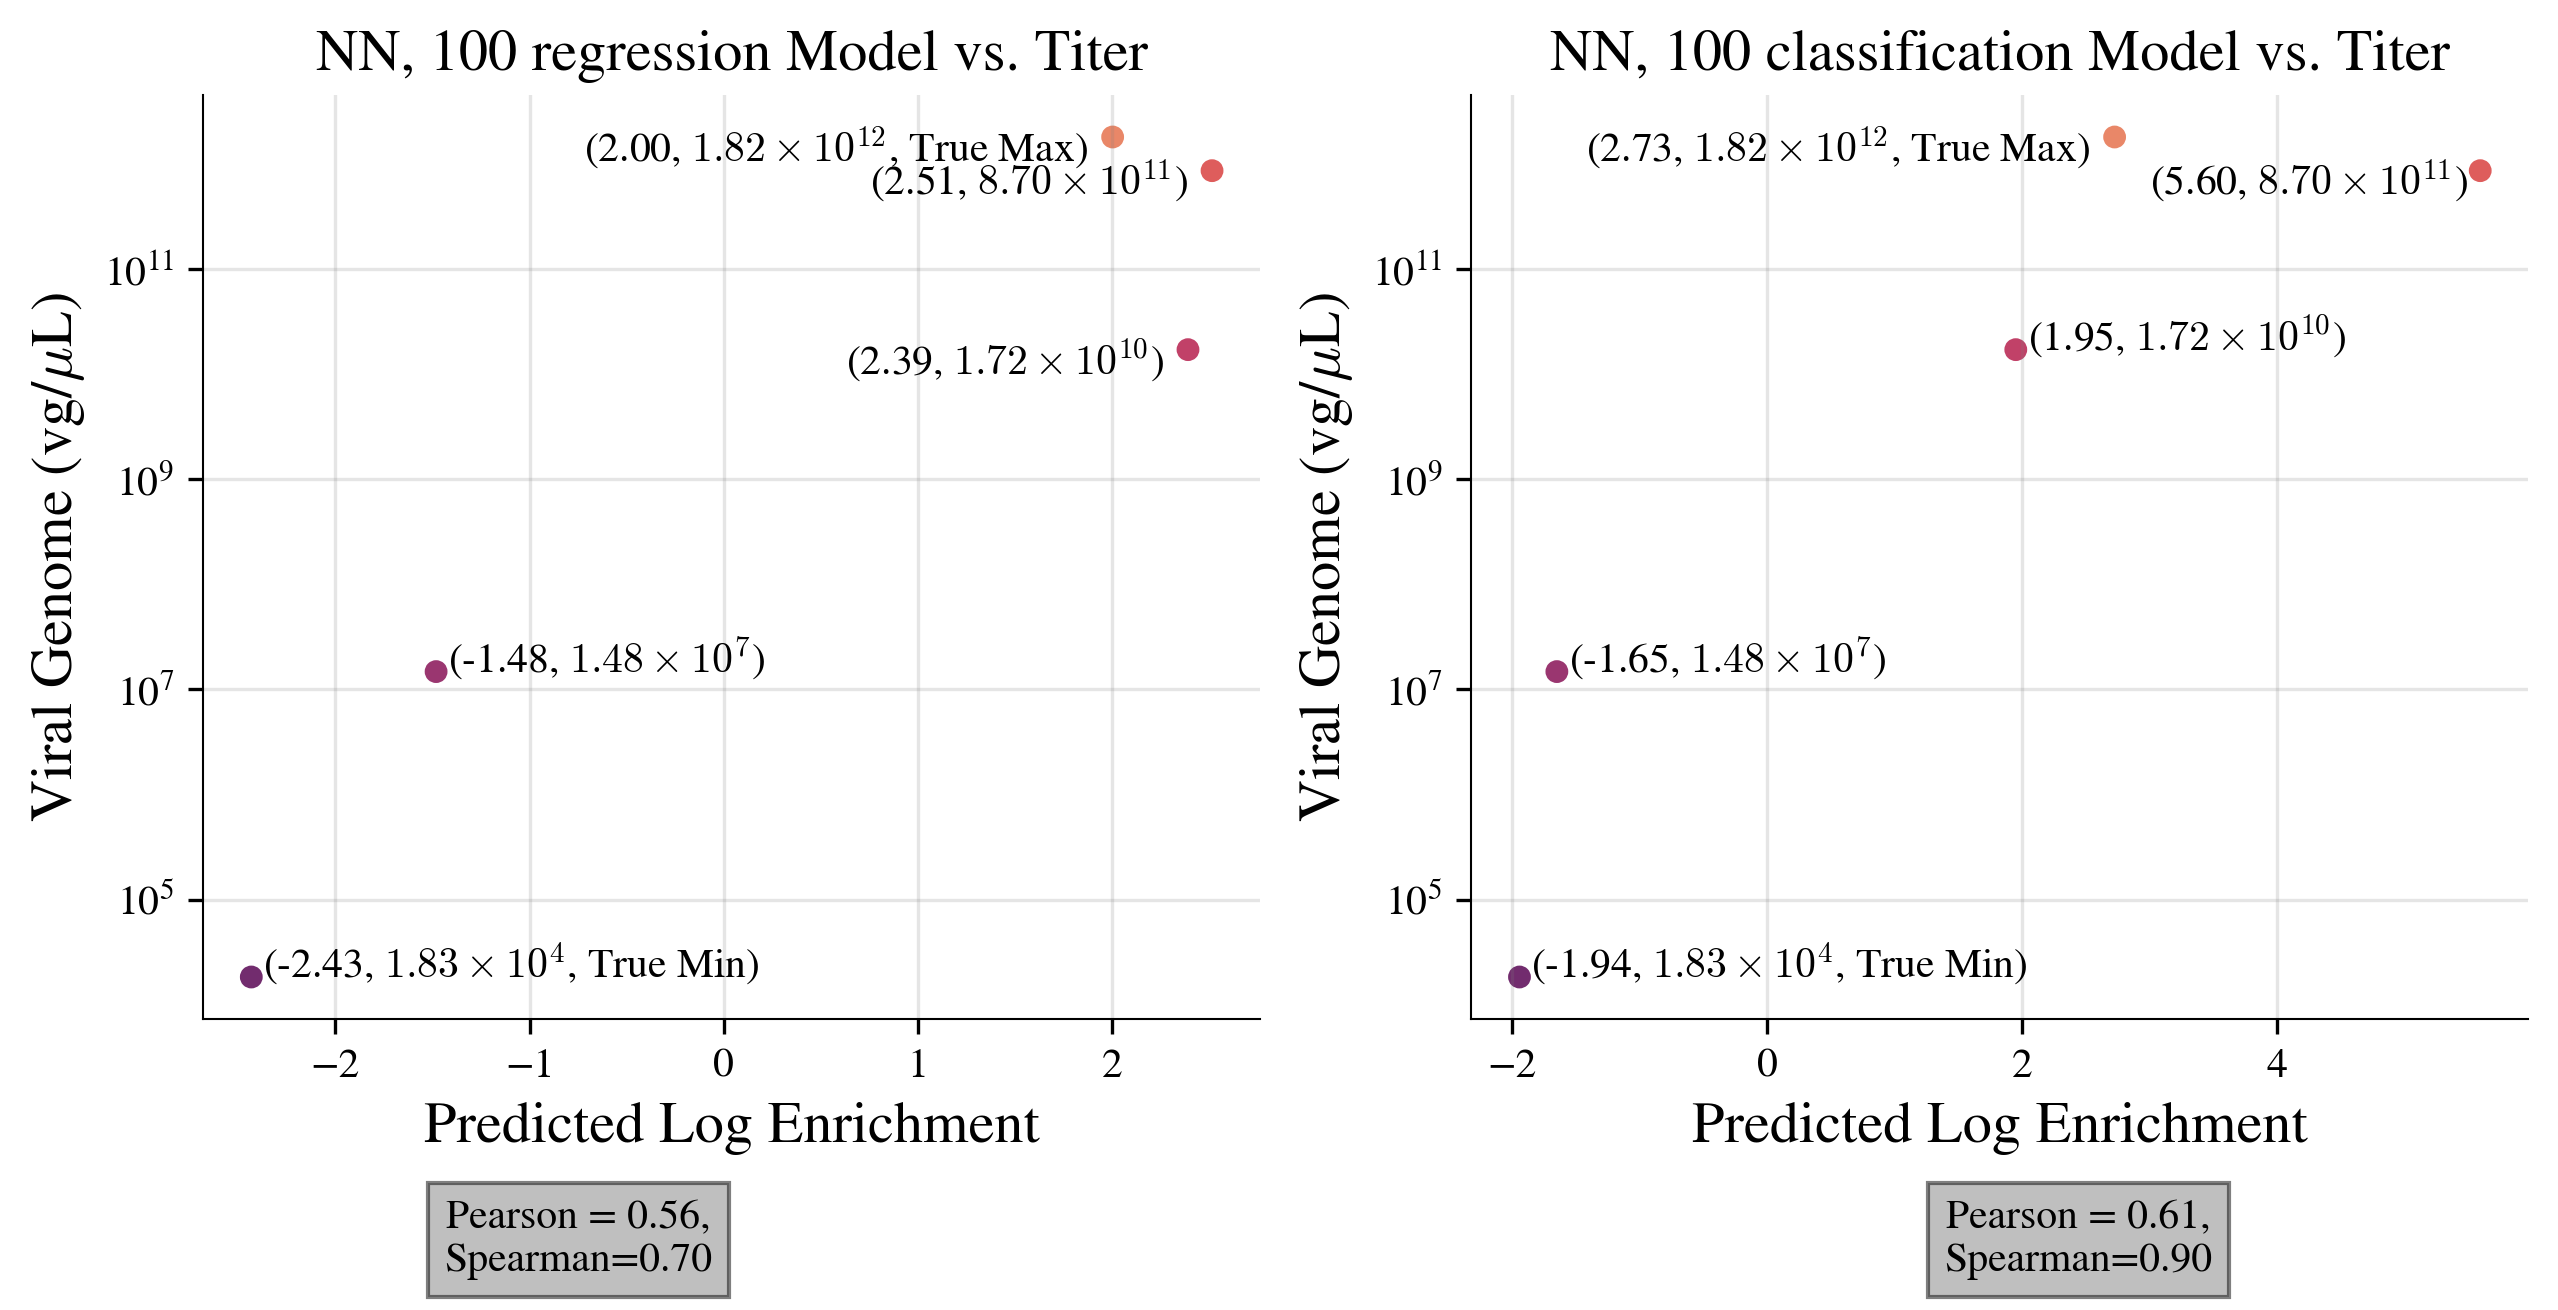
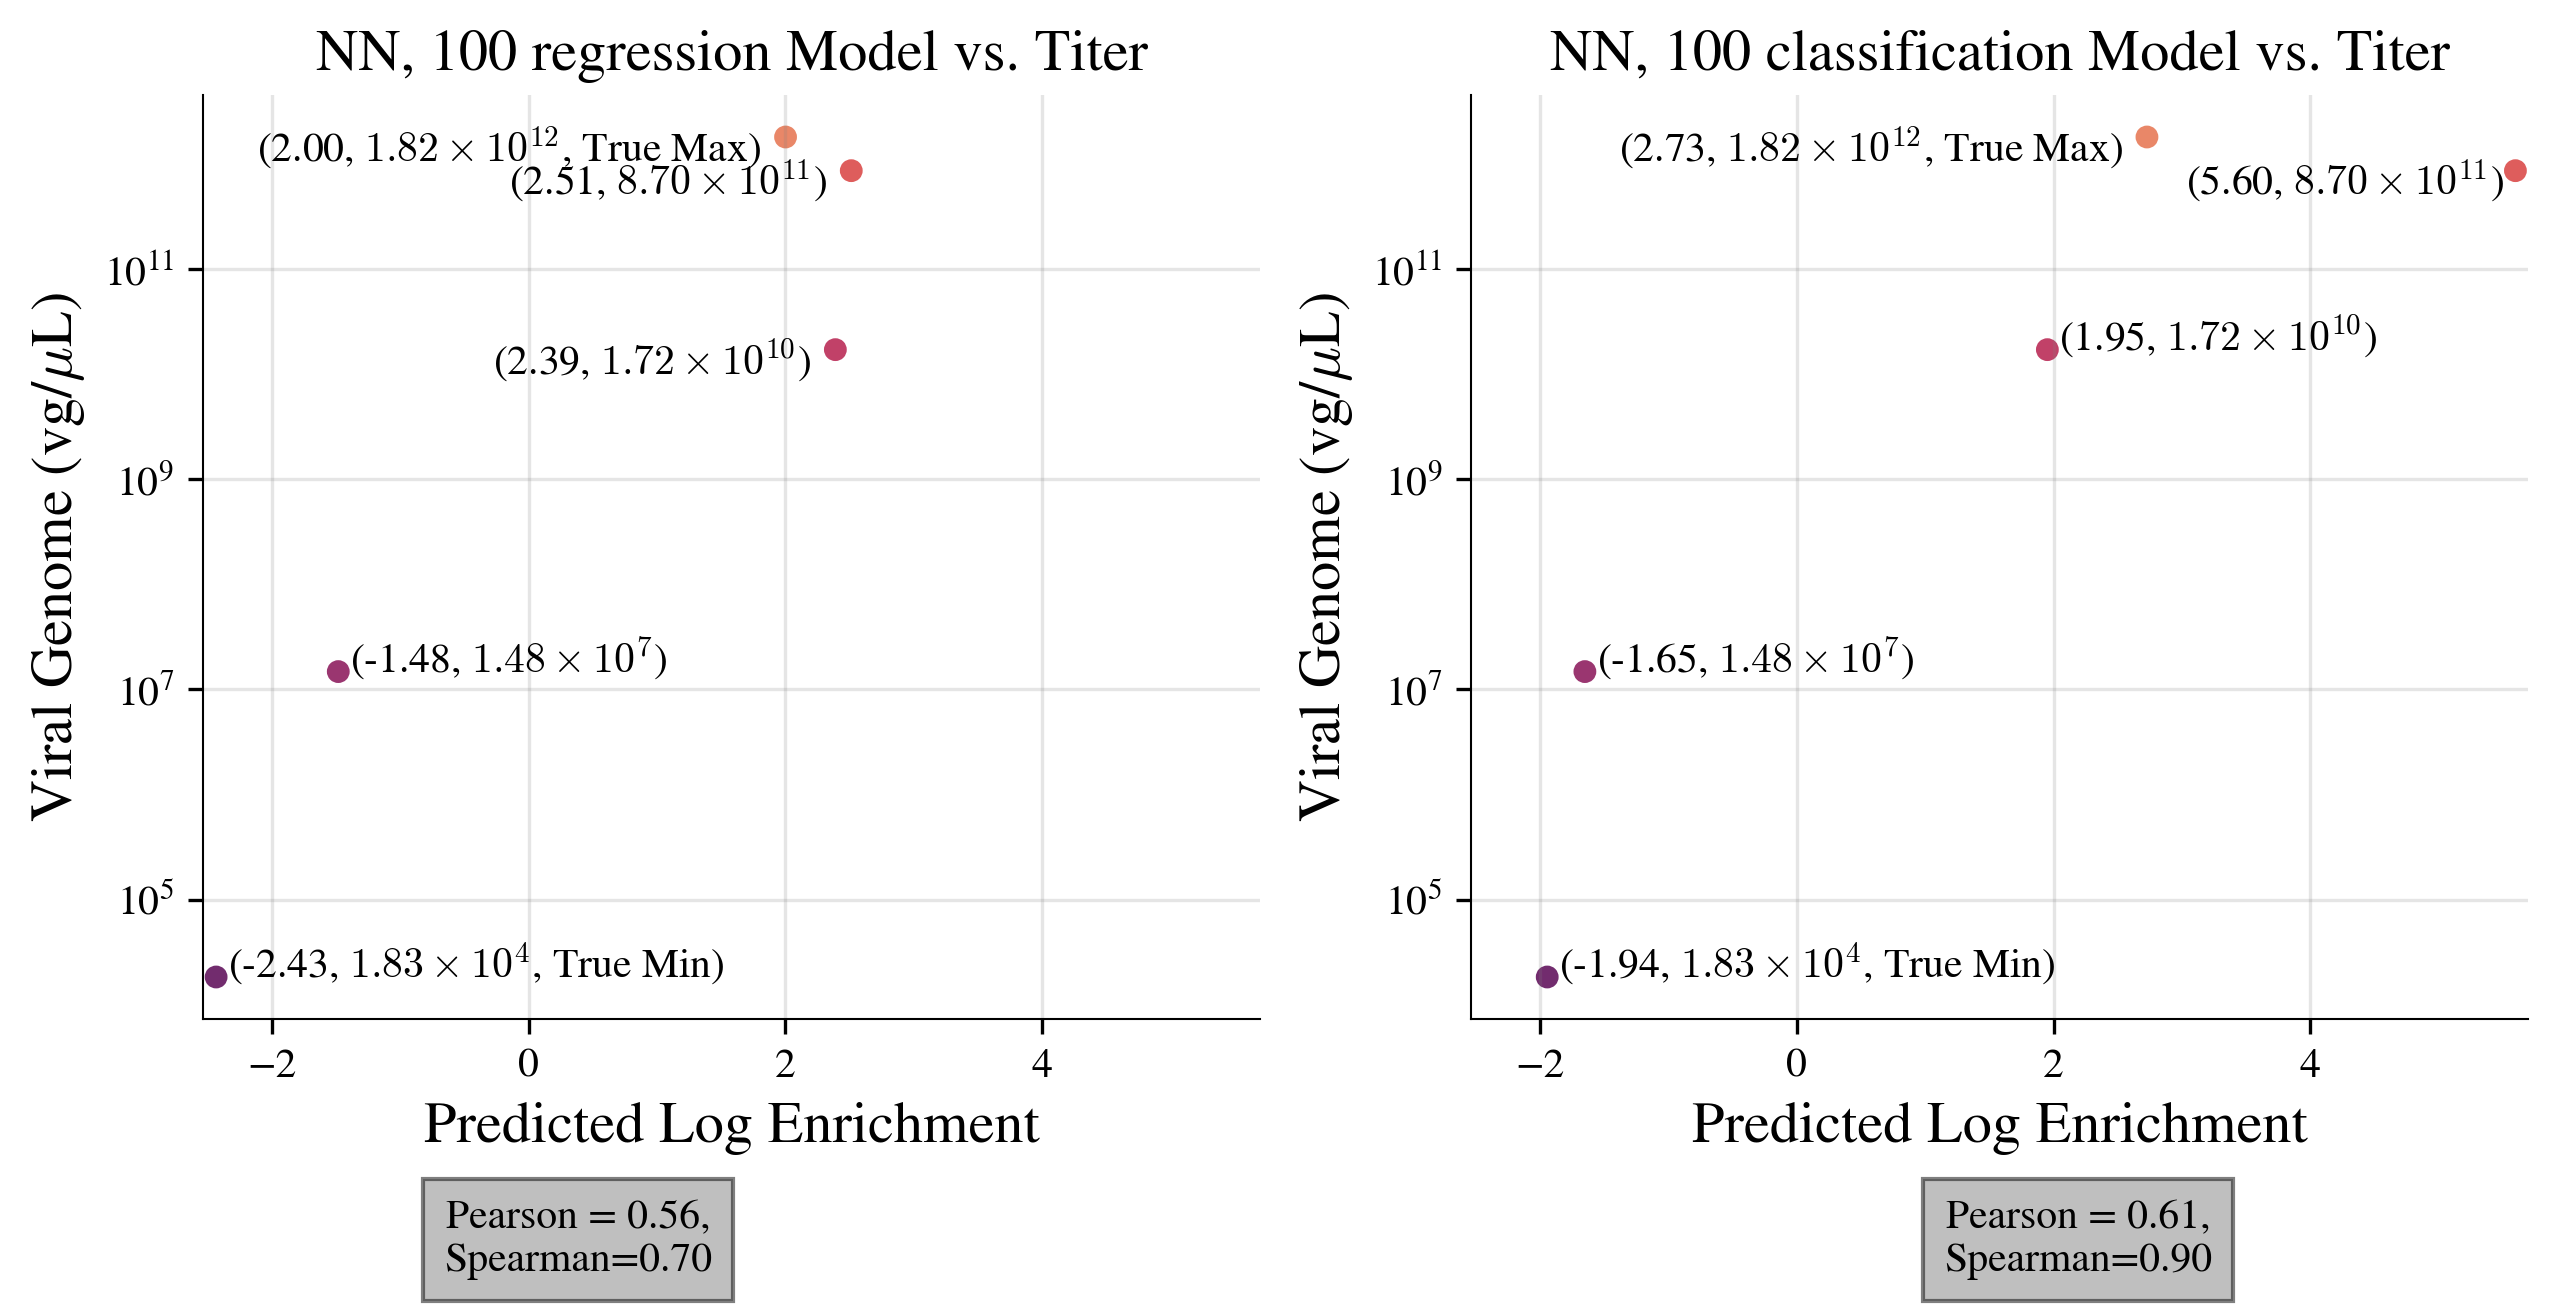
Share x-axis limits

diff --git a/plotting/titer_comparison.py b/plotting/titer_comparison.py
@@ -2,6 +2,7 @@ import os
 import sys
 sys.path.append('..')
 import argparse
+import numpy as np
 import pandas as pd
 import matplotlib.pyplot as plt
 import seaborn as sns
@@ -53,6 +54,7 @@ def main(args):
     
     colors = sns.color_palette('flare', n_colors=5)
     fig, axes = plt.subplots(1, len(model_paths), figsize=(5 * len(model_paths), 4))
+    min_pred, max_pred = np.inf, -np.inf
     
     for i, model_path in enumerate(model_paths):
         disable_gpu(1)
@@ -75,6 +77,8 @@ def main(args):
             preds = logits_to_log_density_ratio(preds)
         else:
             preds = preds.flatten()
+        min_pred = min(np.amin(preds), min_pred)
+        max_pred = max(np.amax(preds), max_pred)
         
         ax = axes[i]
         ax.scatter(preds, titers, s=20, c=colors)
@@ -91,6 +95,9 @@ def main(args):
         spearman = get_spearmanr(titers, preds)
         plt.figtext((0.5 + i) / (len(model_paths)), -0.1, 'Pearson = {:0.2f},\nSpearman={:0.2f}'.format(pearson, spearman), ha='center', fontsize=10, bbox={'facecolor': 'gray', 'alpha': 0.5, 'pad': 5})
     
+    ep = 0.1
+    for ax in axes:
+        ax.set_xlim(min_pred - ep, max_pred + ep)
     plt.savefig(os.path.join(out_dir, '{}_titer_comparison_plot.png'.format(out_tag)), dpi=300, transparent=False, bbox_inches='tight', facecolor='white')
     plt.close()
 
